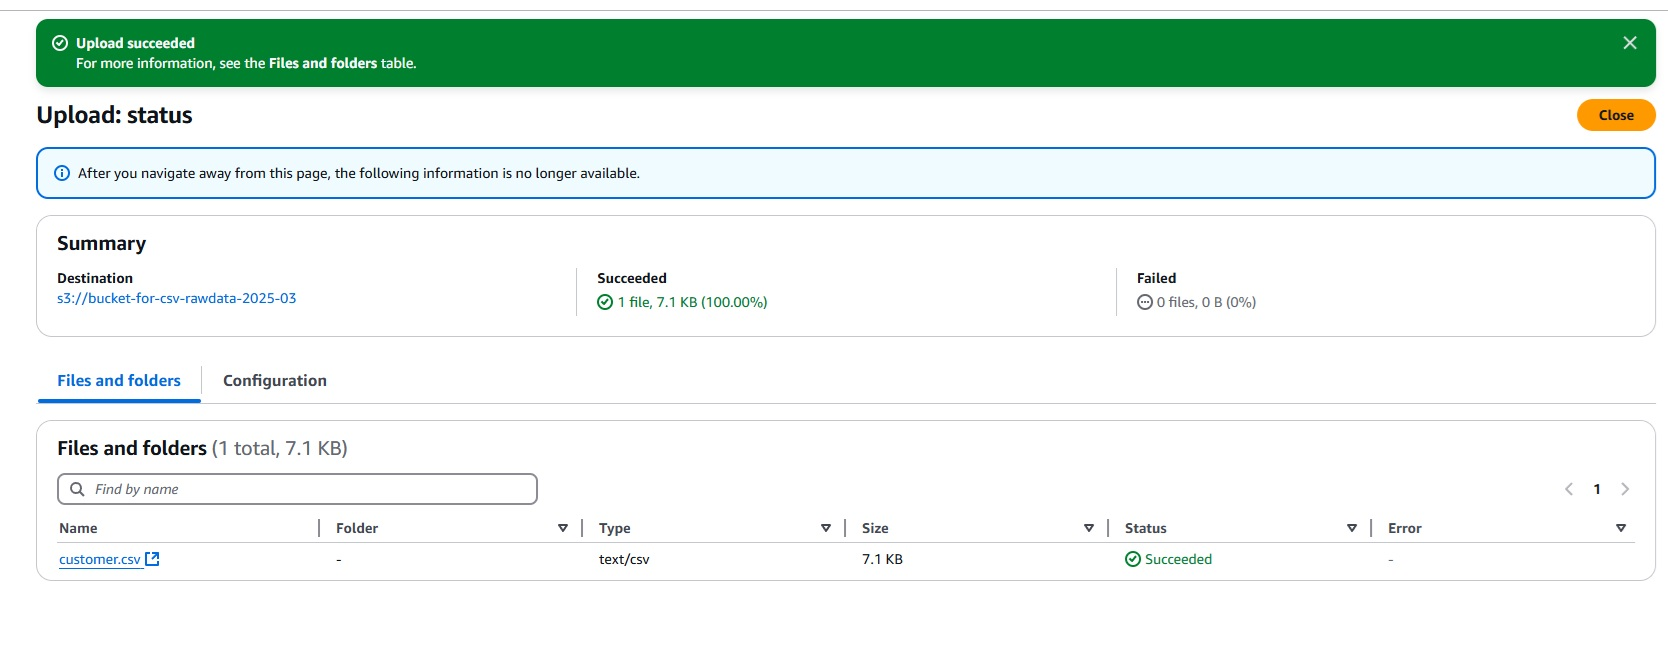
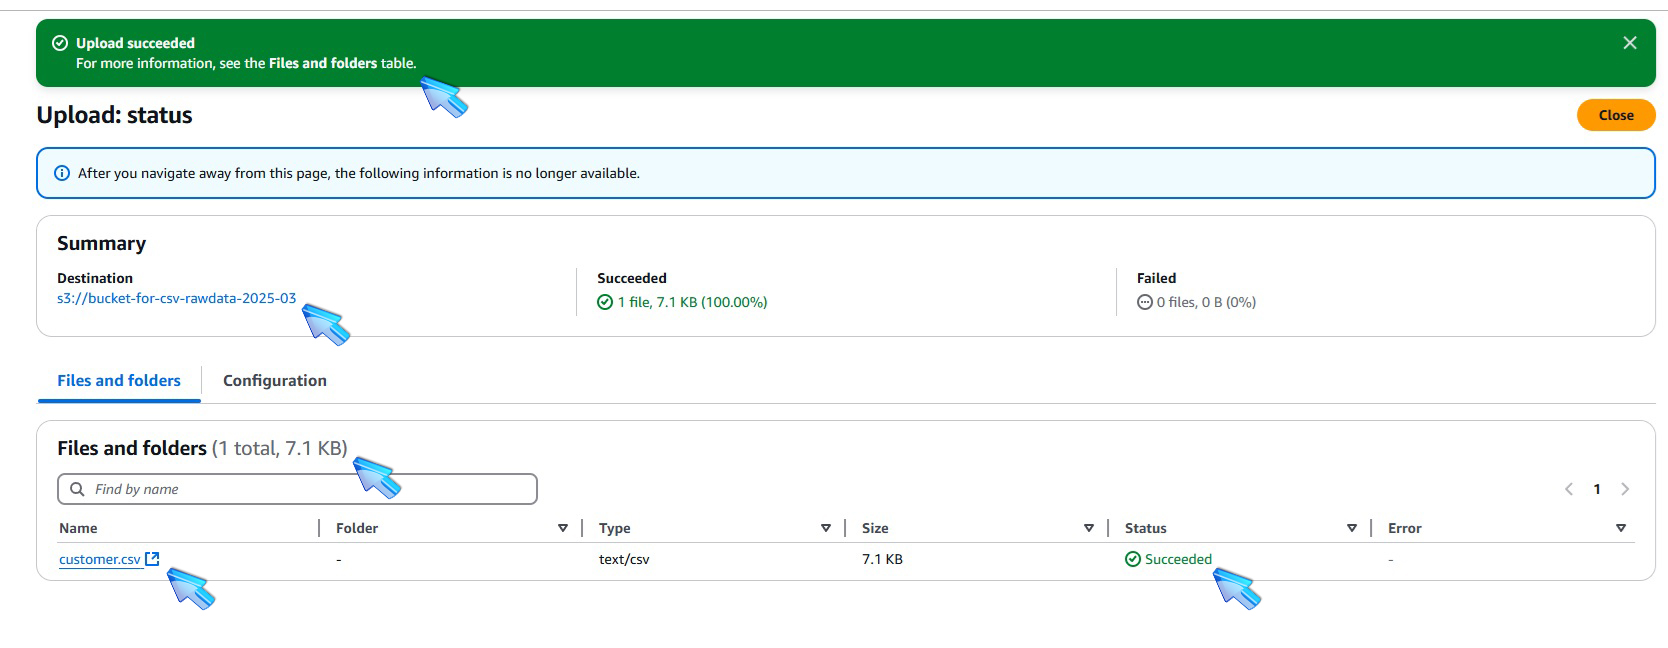
Update S3 upload documentation with new success image and clarify instructions

diff --git a/thisisthelab.md b/thisisthelab.md
@@ -77,12 +77,13 @@
 
 ###### ![Brazil](https://github.com/Acheroniano/flag-icon/blob/master/png/16/country-4x3/br.png "Brazil") 
 ##### ** Clique no botão upload para escolher o arquivo [![Files badge](https://img.shields.io/badge/customer.csv-%23000000?logo=Files&logoColor=yellow&labelColor=blue)](https://github.com/Acheroniano/aws-glue-crawlers-deepseek/blob/main/customer.csv) **
-##### - depois que escolher o arquivo, algumas informações relevantes sobre ele aparecem na tela.
+##### - depois que escolher o arquivo e também após fazer o upload, algumas informações relevantes sobre ele aparecem na tela.
 
 ###### ![United States](https://github.com/Acheroniano/flag-icon/blob/master/png/16/country-4x3/us.png "United States") 
 ##### ** Click on upload button to choose the file [![Files badge](https://img.shields.io/badge/customer.csv-%23000000?logo=Files&logoColor=yellow&labelColor=blue)](https://github.com/Acheroniano/aws-glue-crawlers-deepseek/blob/main/customer.csv) **
-##### - after choosing the file, some relevant information appears on the screen.
+##### - after choosing the file and also after uploading, some relevant information appears on the screen.
 
 ![S3 Upload customer.csv](./images/5a-S3RawDataUpload.jpg)
 ![S3 Upload customer.csv info](./images/6a-S3CustomerCSV.jpg)
+![S3 After Upload customer.csv info](./images/7a-S3CustomerCSVSuccess.jpg)
 
